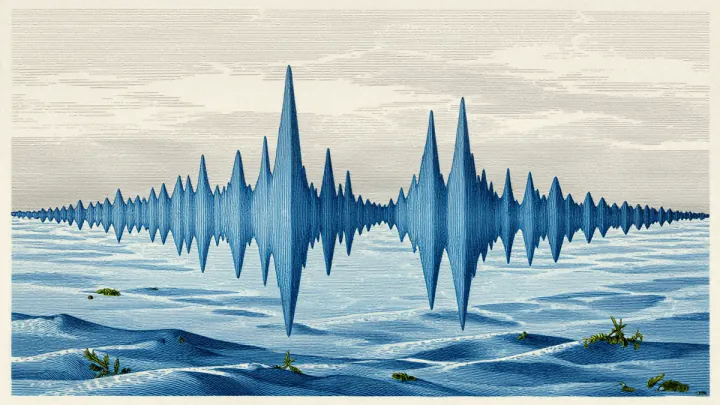
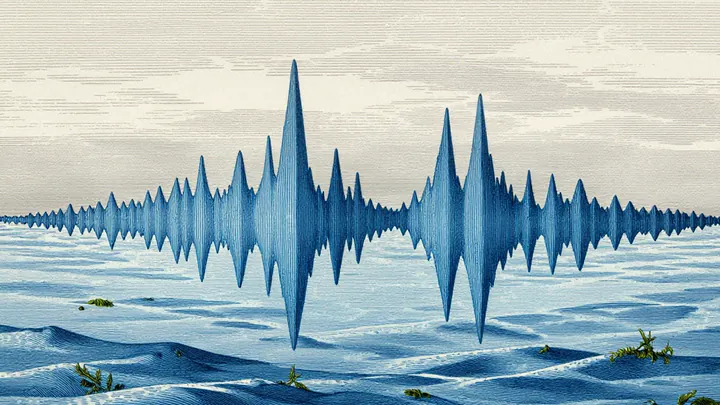
Imágenes del generador: 404 sin monograma, recorte de la 15 y sustituto en tarjetas próximas
La 404 deja solo la ilustración; la imagen de Voice Generator pierde el margen de papel y la firma;
las tarjetas próximas sin imagen muestran celeste plano con isobatas (sustituto de docs/marca.md),
para que la rejilla quede pareja. Entregas apuntadas en docs/marca.md § Entregados.
Check en verde; visto en escritorio y móvil, claro y oscuro.

Siguiente: /code-review contra origin/main, marca de revisión, PR y fusión con el CI en verde

diff --git a/src/components/TarjetaProxima.tsx b/src/components/TarjetaProxima.tsx
@@ -11,7 +11,7 @@ export function TarjetaProxima({ proximo: p }: { proximo: Proximo }) {
   const fases = t('proximamente.fases', { hechas: p.fases.hechas, total: p.fases.total });
   return (
     <article className="tarjeta-proxima" style={{ '--acento-proyecto': p.acento } as CSSProperties}>
-      {p.imagen && (
+      {p.imagen ? (
         <img
           className="proxima-imagen"
           src={ruta(p.imagen)}
@@ -20,6 +20,11 @@ export function TarjetaProxima({ proximo: p }: { proximo: Proximo }) {
           height={405}
           loading="lazy"
         />
+      ) : (
+        // Hasta que llegue su ilustración, celeste plano con isobatas (docs/marca.md, recurso 15).
+        <span className="proxima-imagen proxima-imagen-vacia" aria-hidden="true">
+          <img src={ruta('marca/isobatas.svg')} alt="" loading="lazy" />
+        </span>
       )}
       <div className="proxima-cabeza">
         <span className="proxima-icono">

diff --git a/src/pages/NoEncontrado.tsx b/src/pages/NoEncontrado.tsx
@@ -1,6 +1,5 @@
 import { useEffect } from 'react';
 import { Link } from '../components/Enlace';
-import { MarcaGV } from '../components/Logo';
 import { ruta } from '../data/proyectos';
 import { useIdioma } from '../i18n/Idioma';
 
@@ -27,7 +26,6 @@ export function NoEncontrado() {
           width={900}
           height={600}
         />
-        <MarcaGV tamano={64} />
         <h1>{t('error.titulo')}</h1>
         <p>{t('error.texto')}</p>
         <Link to="/" className="boton boton-primario">

diff --git a/src/estilos/global.css b/src/estilos/global.css
@@ -1065,6 +1065,18 @@ button {
   filter: saturate(0.75);
 }
 
+.proxima-imagen-vacia {
+  overflow: hidden;
+  background: var(--celeste-hondo);
+}
+
+.proxima-imagen-vacia img {
+  width: 100%;
+  height: 100%;
+  object-fit: cover;
+  object-position: left bottom;
+}
+
 .proxima-cabeza {
   display: flex;
   align-items: center;

diff --git a/docs/handoff.md b/docs/handoff.md
@@ -8,8 +8,8 @@ Se actualiza en cada commit. Reglas en [`CLAUDE.md`](../CLAUDE.md).
 |---|---|
 | **Actualizado** | 2026-11-11 (imágenes del generador en la web, a medias) |
 | **Rama de trabajo** | `claude/galivelop-dev-portal-1h89ci` (la que publica la tarea semanal); esta sesión, `ccr-47f8fddd-o5ek6p` (desde `main` en 48827b1) |
-| **Tarea en curso** | Imágenes del generador en la web (la persona las deja en `src/img/`, que no se versiona): 06 fondo de la cabecera de color en desarrollo (ficha de IG), 10 banda sobre el formulario de `/unirse`, 13 banda arriba de `/equipo` (`/productos` ya redirige allí), 15 tarjeta «Próximamente» de Voice Generator (`imagen` en `proximamente.json`), 18 página 404, 19 «enviado» de los formularios (destinos confirmados por la persona). WebP en `public/` y código hechos; falta check en verde, verlas en escritorio y móvil (claro y oscuro), apuntarlas en `docs/marca.md` y `/code-review` |
-| **Siguiente paso** | Terminar el check, capturas de la ficha de IG, `/equipo`, `/unirse`, 404 y «enviado» (y la tarjeta próxima en el inicio); apuntar las entregas en `docs/marca.md`; revisión. En esta máquina no hay Node: la sesión usa uno descargado en su carpeta temporal |
+| **Tarea en curso** | Imágenes del generador en la web (06, 10, 13, 15, 18, 19; entregas apuntadas en `docs/marca.md` § Entregados). Hecho y visto en escritorio y móvil, claro y oscuro; la persona autorizó (2026-11-11) «haces PR y lo llevas a main» y «si el CI está en verde fusionas». Falta: `/code-review`, marca, PR y fusión con el CI en verde |
+| **Siguiente paso** | `/code-review` del diff contra `origin/main`, `revisado.sh`, PR con la skill `pr` y fusión con el CI en verde. En esta máquina no hay Node: la sesión usa uno descargado en su carpeta temporal |
 | **En `main`** | **Borrado de `promocionado`/`servicios` y repaso de toda la web** (e02460c, 2026-11-11, la persona: «lo llevas a main y con el ci en verde fusionas»; CI «Check» en verde, ejecuciones 138 y 139; rama semanal avanzada hasta ahí). Lo anterior, en «Hecho» y en `git log origin/main`. https://zeldris.github.io/Portal-Galivelop/ |
 | **Tests** | `npm run check`: tsc 0 errores, `prettier --check` de `src/`, vitest 191/191 (21 archivos) y `tools/qa/tests/test-ganchos.sh`. `npm run build` correcto (42 páginas estáticas, sitemap, robots y llms) |
 

diff --git a/docs/marca.md b/docs/marca.md
@@ -113,6 +113,20 @@ Al recibir una imagen, se copia a su destino y se ejecuta la orden. Los números
 
 La vista previa (`og`) de un proyecto es siempre `tools/og/fuentes/<slug>/og-fuente.png` + `python3 tools/og/generar.py`, nunca el `og.jpg` a mano.
 
+### Entregados
+
+| # | Fecha | Ruta | Dónde se ve |
+|---|---|---|---|
+| 6 (desarrollo) | 2026-11-11 | `public/marca/portada-desarrollo.webp` (1600×900) | Fondo velado de la cabecera de las fichas con `cabecera: "color"` en estado desarrollo (hoy Image Generator); sin `-mini` mientras ninguna tarjeta la use |
+| 10 | 2026-11-11 | `public/marca/como-funciona.webp` (1200×450) | Banda entre la entrada y el formulario de `/participa/unirse` |
+| 13 | 2026-11-11 | `public/marca/cabecera-equipo.webp` (1600×500) | Arriba de `/equipo` (`/productos` ya redirige allí, ADR 0004) |
+| 15 (voz) | 2026-11-11 | `public/proyectos/galivelop-voice-generator/proxima.webp` (720×405, recortado el margen de papel) | `imagen` de su entrada en `proximamente.json`; las entradas sin imagen muestran celeste plano con isobatas |
+| 18 | 2026-11-11 | `public/marca/no-encontrado.webp` (900×600) | Página 404 (sustituye al monograma) |
+| 19 | 2026-11-11 | `public/marca/enviado.webp` (640×480) | «Mensaje preparado» de `/participa/proponer` y `/participa/unirse` |
+
+Las imágenes llegan a `src/img/` (fuera de git) y se convierten aquí con `cwebp -q 80`. Las de papel (10, 18, 19) aún no
+tienen versión para el tema oscuro: se muestran enmarcadas tal cual.
+
 ### Cómo pedirlas
 
 - **Un solo estilo para todo:** cada prompt termina con el bloque común de abajo. Si el generador admite imagen de
